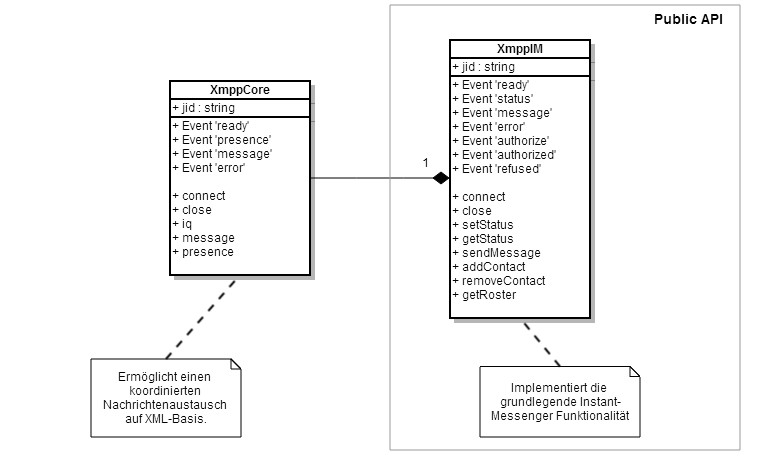
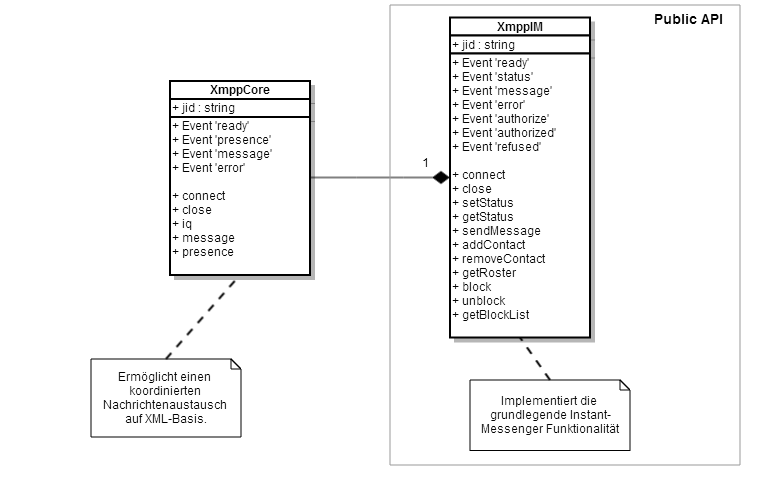
Privacy List Management
Added block, unblock, getBlockList API Methods

diff --git a/XmppIM.js b/XmppIM.js
@@ -291,8 +291,41 @@ proto.block = function(jid, granularity) {
 	this._addToBlockList(o);
 };
 
+/**
+ * Unblocks the contact with the specified JID.
+ * 
+ * @param jid
+ *  The JID of the contact to unblock.
+ * @exception Error
+ *  Thrown if the jid parameter is null or undefined or not of
+ *  type string.
+ */
 proto.unblock = function(jid) {
-	
+	if(jid == null)
+		throw new Error('jid must not be null.');
+	if(typeof jid != 'string')
+		throw new Error('jid must be a string.');
+	this._removeFromBlockList(jid);
+};
+
+/**
+ * Retrieves a list of blocked contacts.
+ * 
+ * @param cb
+ *  A callback method invoked once the list of blocked contacts has been
+ *  retrieved. The first parameter of the callback is an array of blocked
+ *  contacts.
+ * @exception Error
+ *  Thrown if the cb parameter is null or undefined.
+ */
+proto.getBlockList = function(cb) {
+	if(cb == null)
+		throw new Error('cb must not be null.');
+	this._getDefaultList(function(success, name, list) {
+		if(success == false)
+			cb.call(this, []);
+		cb.call(this, list);
+	});
 };
 
 /**
@@ -784,6 +817,36 @@ proto._addToBlockList = function(o) {
 			this._createList('_default', [lit]);
 			this._setDefaultList('_default');
 		}
+	});
+};
+
+/**
+ * Removes an entry from the block list.
+ * 
+ * @param jid
+ *  The JID of the contact to unblock.
+ * @exception Error
+ *  Thrown if the jid parameter is null or undefined or not of
+ *  type string.
+ */
+proto._removeFromBlockList = function(jid) {
+	if(jid == null)
+		throw new Error('jid must not be null.');
+	if(typeof jid != 'string')
+		throw new Error('jid must be a string.');
+	this._getDefaultList(function(success, name, list) {
+		var removed = false;
+		if(success == false)
+			return;
+		for(var i in list) {
+			if(list[i].jid == jid) {
+				list.splice(i, 1);
+				removed = true;
+			}
+		}		
+		// Overwrite the old list.
+		if(removed)
+			this._createList(name, list);	
 	});
 };
 

diff --git a/test.js b/test.js
@@ -11,7 +11,7 @@ client.on('ready', function(info) {
 	console.log('Verbunden als ' + info.jid);
 	console.log('Meine Contactlist:');
 	console.log(info.roster);
-			
+
 /*	
 	// Status auf away setzen.
 	this.setStatus({
